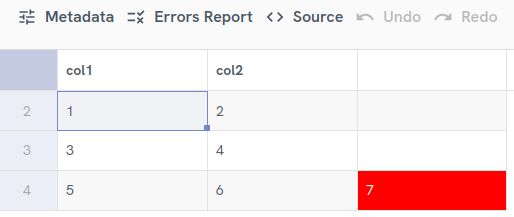
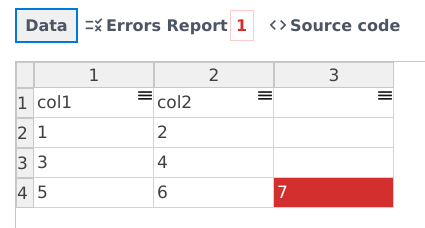
944 update user guide (#1070)
* Update welcome section.

* Update uploading data section.

* Clean creating folders section

* Cleanup exploring tables section.

* Update explore-table-errors images.

* Update editing errors in tables section.

* Update deleting file/folder screenshot.

* Update table error list screenshots.

* Update explore and edit metadata.

* Update exporting data section.

* Update similar tools

* Update AI documentation.

* Fix documentation.

Changed region(s): [[0.0, 0.2212, 1.0, 0.9954], [0.0306, 0.0276, 0.9788, 0.1935], [0.5506, 0.1659, 0.6118, 0.1935]]

diff --git a/docs/source/documentation/welcome.md b/docs/source/documentation/welcome.md
@@ -1,29 +1,28 @@
 # Welcome!
 
-The Open Data Editor (ODE) is a tool for non-technical data practitioners to explore and detect errors in tables. It also allows users to publish data on GitHub, Zenodo and CKAN portals.
+The Open Data Editor (ODE) is a tool for non-technical data practitioners to explore and detect errors in tables.
 
 ODE is powered by [Frictionless](https://framework.frictionlessdata.io/), a toolkit created by the Open Knowledge Foundation (OKFN) to help data practitioners find errors in data in an easier way.
 
-In October 2023, the OKFN team released a beta version of the ODE for early adopters. Since then, and thanks to the support of [McGovern Foundation](https://www.mcgovern.org/), in March 2024 our team started working on a new product vision for the app which focused on reducing the number of features available to users to transform the app into a validation tool for tables.
-
-This user guide has been updated to adapt its content for the ODE pre-release in September 2024.
-
-:::tip
-Please be aware that our team is working on making improvements to the ODE for its stable release in December 2024. Therefore, you may encounter some actions that are not performing as expected. If you come across such issues, please let us know by creating an [issue on GitHub](https://github.com/okfn/opendataeditor/issues/new) or [sending us an email](mailto:info@okfn.org).
-:::
+This project was possible thanks to the support of [McGovern Foundation](https://www.mcgovern.org/).
 
 ## How to download and install the app
-
-To download the ODE app, please, [click here](https://github.com/okfn/opendataeditor/releases)
 
 Open Data Editor is available on all major platforms:
 - **For Windows**: Download the most recent **EXE file**.
 - **For MacOS**: Download the most recent **DMG file**.
-- **For Linux**: Download the most recent **AppImage or DEB file**.
+- **For Debian based Linux**: Download the most recent **AppImage or DEB file**.
+- **For other Linux**: Download the most recent **AppImage**.
+
+### From our website
+You can download the ODE app from our website: [https://okfn.org/en/projects/open-data-editor/](https://okfn.org/en/projects/open-data-editor/)
+
+### From GitHub Releases
+To download the ODE app, please, [click here](https://github.com/okfn/opendataeditor/releases)
 
 ## Windows
 
-Go to the [RELEASES](https://github.com/okfn/opendataeditor/releases) and download the most recent **EXE** file.
+Download the most recent **EXE** file as per above instructions.
 
 1. If you receive the following message click `Continue download`
 
@@ -39,7 +38,7 @@ Go to the [RELEASES](https://github.com/okfn/opendataeditor/releases) and downlo
 
 ## MacOS
 
-Go to the [RELEASES](https://github.com/okfn/opendataeditor/releases) and download the most recent **DMG** file.
+Download the most recent **DMG** file as per above instructions.
 
 1. If you encounter a security message, click on the question mark and then click the link in the first section.
 
@@ -58,7 +57,9 @@ For Linux, there are two options available:
 
 ### Any Distribution
 
-Go to the [RELEASES](https://github.com/okfn/opendataeditor/releases) and download the most recent **AppImage** file. After downloading, you have to make it executable:
+Download the most recent **AppImage** file as per above instructions.
+
+After downloading, you have to make it executable:
 
 ![MAKE EXECUTABLE](./assets/getting-started/gs-linux-executable.png)
 
@@ -66,10 +67,19 @@ Then double-click on the file to start the application.
 
 ### Ubuntu/Debian
 
-Go to the [RELEASES](https://github.com/okfn/opendataeditor/releases) and download the most recent **DEB** file. Double click on the file and it will initiate the installation process.
+Download the most recent **DEB** file as per above instructions.
+
+Double click on the file and it will initiate the installation process.
 
 ![MAKE INSTALLATION](./assets/getting-started/gs-ode-installation.png)
 
 After installation, you can use it.
 
 ![INSTALLED APP](./assets/getting-started/gs-ode-app.png)
+
+Optionally, in Debian you can install it by running the following command:
+
+```bash
+# Replace <version> with the version you downloaded
+sudo dpkg -i opendataeditor-linux-<version>.deb
+```

diff --git a/docs/source/documentation/ai-integration.md b/docs/source/documentation/ai-integration.md
@@ -1,17 +1,53 @@
 # AI integration
 
-The ODE has an AI component to help users improve column names and descriptions. To use the AI assistant, please first ingest or select a file from the sidebar. Then click on the AI button located on the top right corner of the app:
+The ODE has an AI component to help users understand better their data. The AI component is powered by local models so all the data, metadata, prompts and responses are always executed on the user's machine. In order to use the AI feature, ODE will guide the user to download the model into their machine first.
+
+The AI component is still in beta and will improve over time.
+
+:::{note}
+As the model is local and all computing will be happening in the user's computer, performance will be affected by the machine's hardware and the responses quality sometimes will be minor than typical cloud LLMs like ChatGPT, Deepseek or Claude.
+
+ODE is trying to make a good trade-off between user experience for non-technical audiences, performance and privacy.
+:::
+
+## How to use the AI component
+
+To use the AI assistant select a file from the sidebar, and then click on the AI button located on the top right corner of the app:
 
 ![AI Integration button is located in the top panel](./assets/ai-integration/ai-integration-1.png)
 
-The tool will then display a dialog to inform the user that by confirming the action, the app will only share column names with OpenAI. If the user accepts, the next step is to add the OpenAI key. The dialog also includes a link to check OpenAI terms and conditions:
+ODE will show a dialog to assist the user in downloading the model:
 
-![OpenAI key dialog](./assets/ai-integration/ai-integration-2.png)
+![Downloading model dialog](./assets/ai-integration/ai-integration-2.png)
 
-After pasting your OpenAI key, the ODE will show you a predefined prompt:
+Once the model is downloaded, the user will be able to click on the **Next** button to continue.
 
-![OpenAI Prompt dialog](./assets/ai-integration/ai-integration-3.png)
+## AI Use Cases
 
-Finally, clicking on confirm will generate the response.
+ODE has two use cases for the AI component:
 
-Note: The OpenAI integration is a pilot. The ODE team will collect feedback and improve the implementation in 2025.
+1. Assist the user in understanding the columns of a table.
+2. Suggest analysis and questions that the user can query to the data.
+
+To choose the use case, select it from the dropdown menu.
+
+![AI Use Cases dropdown menu](./assets/ai-integration/ai-integration-3.png)
+
+Once selected, click on the **Execute** button to get a response from the AI model.
+
+:::{note}
+Depending on the hardware of the user's machine, the response time can vary. Usually it will take around 10 seconds to get a response.
+:::
+
+### Assist the user in understanding the columns of a table
+
+The AI model will analyze the columns' names, types and some sample data and will generate a description of each column. This is useful to understand the data better, clarify technical of complex names, expand acronyms, etc.
+
+![AI assistance in understanding the columns of a table](./assets/ai-integration/ai-integration-4.png)
+
+### Suggest analysis and questions that the user can query to the data
+
+The AI model will analyze the columns' names, types and some sample data and will generate a list of questions that the user can query to the data.
+
+![AI assistance in understanding the columns of a table](./assets/ai-integration/ai-integration-5.png)
+

diff --git a/docs/source/documentation/uploading-data.md b/docs/source/documentation/uploading-data.md
@@ -9,7 +9,7 @@ This section explains how to upload tabular files, folders with tables and onlin
 You can click on the **Upload your data** button, located in the centre of the screen or at the **top left** on the sidebar to start adding files/folders to the app.
 
 :::{note}
-Each time you upload a file or folder to the ODE, the application will not ingest the original file/folder from your computer. Instead, it will make a copy of it and add it to the application folder on your laptop. After the ingestion process ends, you can click on the **three dots** next to the name of the file/folder and select the **Open Location** option. By doing so, ODE will redirect you to the exact location where the copy was saved.
+Each time you upload a file or folder to the ODE, the application will not ingest the original file/folder from your computer. Instead, it will make a copy of it and add it to the application folder on your laptop. After the ingestion process ends, you can right-click on the file/folder and select the **Open Location** option. By doing so, ODE will redirect you to the exact location where the copy was saved.
 :::
 
 ![Open file location](./assets/uploading-data/open-location.png)
@@ -28,21 +28,7 @@ Once the ingestion process concludes, the ODE will add your data on the sidebar 
 
 Note that while uploading your data the tool checks your files or folders to find errors according to the validation rules provided by [Frictionless](https://framework.frictionlessdata.io/). Please, check the [Full list of table errors that the ODE detects](/documentation/table-error-list) in this guide to learn more.
 
-👉🏼 If your file has **NO ERRORS**, the ODE will add a green dot 🟢 before the name of your file.
-
-![Green dot on file navigator](./assets/uploading-data/green-dot.png)
-
-👉🏼 If your file has **ERRORS**, the ODE will add a red dot 🔴 before the name of your file.
-
-![Red dot on file navigator](./assets/uploading-data/red-dot.png)
-
 Please, keep in mind that since the preview section (datagrid) can only show one tabular file at the time, when uploading folders, and after the ingestion process is done, you will need to click on the folder and select the file you want to visualize on the screen. As soon as you click on a specific file, the ODE will start validating your data (looking for possible errors) and the table will be shown on the app.
-
-:::{note}
-If you ingest a non-tabular format (PDF or Word, for instance), the ODE will display this message on the main screen:
-
-![Not supported file](./assets/uploading-data/not-supported-file.png)
-:::
 
 ### Tables published online
 
@@ -52,7 +38,7 @@ To upload online tables, first click the **Upload your data** button and then se
 
 ![Upload online tables](./assets/uploading-data/tables-published-online.png)
 
-Now, write or paste the URL to the table. The ADD button will turn blue:
+Now, write or paste the URL to the table and click the Add button:
 
 ![Upload online table URL input](./assets/uploading-data/tables-published-online-2.png)
 

diff --git a/docs/source/documentation/explore-edit-metadata.md b/docs/source/documentation/explore-edit-metadata.md
@@ -1,17 +1,17 @@
 # How to explore and edit metadata
 
-To explore or edit the metadata, select a file from the menu on the left and click on the **Metadata button** located at the top left of the datagrid.
+To explore or edit the metadata, select a file from the menu on the left and click on any cell of the header row (first row).
 
 ![Metadata Button](./assets/explore-edit-metadata/metadata-button.png)
 
-The ODE will then display the **Metadata panel**:
+The ODE will then display the **Metadata window**:
 
 ![Metadata panel](./assets/explore-edit-metadata/metadata-panel.png)
 
-You can click on any of the options on the left (Resource, Dialect or Schema) to start editing the metadata linked to your file.
+You can click on any of the options to start editing the metadata linked to your file.
+
+Once you have finished editing the metadata, click on the **Save changes** button to save the changes.
 
 :::{note}
-To update/make changes to the names of the columns in the table, go to the metadata section, click on Schema and select Fields. The ODE will provide a list of all the columns from your table. Click on the name of a column to edit to start making changes:
-
-![Changing column names](./assets/explore-edit-metadata/changing-column-names.png)
+Saving changes will trigger a validation of the file.
 :::

diff --git a/docs/source/documentation/table-error-list.md b/docs/source/documentation/table-error-list.md
@@ -24,7 +24,7 @@ Table example is represented as follows:
 
 **This type of error occurs when the structure of the data is not as expected.** For example, the number of columns in a row is different from the number of columns in the header.
 
-### Header missing
+### Header missing (Blank Label)
 
 **This error occurs when the header row is empty**. The header row should contain the names of the columns:
 
@@ -40,20 +40,6 @@ This is how the ODE will show the error:
 
 ![Header missing error](./assets/table-error-list/header-missing.png)
 
-:::{important}
-If the header row in the csv is completely empty this error won’t be reproduced as the ODE interprets that the header is in the second row.
-For instance, if a user opens a csv with this structure:
-
-```
-1,2
-3,4
-```
-
-The ODE will consider values 1 and 2 as column names.
-
-![First row as header](./assets/table-error-list/header-missing-2.png)
-:::
-
 ### Column name missing
 
 **This error occurs when one or more column names are missing:**
@@ -68,7 +54,7 @@ col1,
 
 This is how the ODE will show the error:
 
-![Column name missing error](https://github.com/user-attachments/assets/a8546dbb-5f10-455f-8be9-9b4c7ac2a3ad)
+![Column name missing error](./assets/table-error-list/column-name-missing.png)
 
 ### Duplicate column name
 

diff --git a/docs/source/documentation/editing-errors-in-tables.md b/docs/source/documentation/editing-errors-in-tables.md
@@ -12,15 +12,9 @@ To fix cell errors, you can directly edit the data cells in the viewer/editor.
 ![Edit cell with errors](./assets/editing-errors-in-table/edit-cell-with-error.png)
 
 
-**Step 3:** To save changes, click the **Save changes** button at the top right of the datagrid. The button will get activated if there are unsaved changes.
+**Step 3:** To save changes, click on another part of the table to accept the change in the cell and when the the **Save changes** button is activated click on it. The button will get activated if there are unsaved changes.
 
 ![Save changes button](./assets/editing-errors-in-table/save-changes-button.png)
 
 After clicking the **Save changes** button, the ODE will update the errors report.
-
-👉🏼 You can undo or redo/undo unsaved changes by clicking on the **Redo/Undo** features at the **top left** of the datagrid.
-
-:::{note}
-If you click outside the datagrid without saving changes, the ODE will display a dialog with two options: save changes or discard them.
-:::
 

diff --git a/docs/source/documentation/export-data.md b/docs/source/documentation/export-data.md
@@ -1,0 +1,22 @@
+# Exporting your data
+
+You can export your data using the **Export** feature located at the top right of the datagrid:
+
+![Publish button](./assets/exporting-data/export-button.png)
+
+Once you click the **Export** button, the ODE will display the following dialog:
+
+![Publish form](./assets/exporting-data/export-dialog.png)
+
+## Download File
+
+This option will download the file in CSV format.
+
+## Download file with errors
+
+This option will export an excel file with three sheets:
+
+- **Data**: This sheet contains the original table with all the errors painted in red.
+- **Errors Description**: This sheet contains the description of the errors detected by the ODE with the corresponding cell (row and column).
+- **Blank Rows**: This sheet contains the rows on the original table that did not contain any values.
+

diff --git a/docs/source/documentation/similar-tools.md b/docs/source/documentation/similar-tools.md
@@ -2,8 +2,6 @@
 
 There are several alternatives available with their own pros and cons. Let's comapre them with **Open Data Editor** to have a better understanding of the Data IDE field.
 
-<img width="1238" alt="Captura de pantalla 2024-09-18 a la(s) 3 29 21 p  m" src="https://github.com/user-attachments/assets/c47aaf3a-576d-44e0-b383-e46b7bce54f3">
-
 ## Data Curator
 
 Data Curator application has features to describe, validate and publish data. The published data will be in machine-readable and reusable format. It uses frictionless `Data Package` standards and has integration with CKAN. The data curator is also available through Microsoft Windows store and MAC App store. More information about OpenRefine can be found [here](https://github.com/qcif/data-curator).

diff --git a/docs/source/index.rst b/docs/source/index.rst
@@ -16,8 +16,6 @@ please visit: `https://okfn.org/en/projects/open-data-editor/ <https://okfn.org/
 
    documentation/welcome.md
    documentation/uploading-data.md
-   documentation/creating-folders.md
-   documentation/exploring-tables.md
    documentation/explore-table-errors.md
    documentation/editing-errors-in-tables.md
    documentation/deleting-files-folders.md
